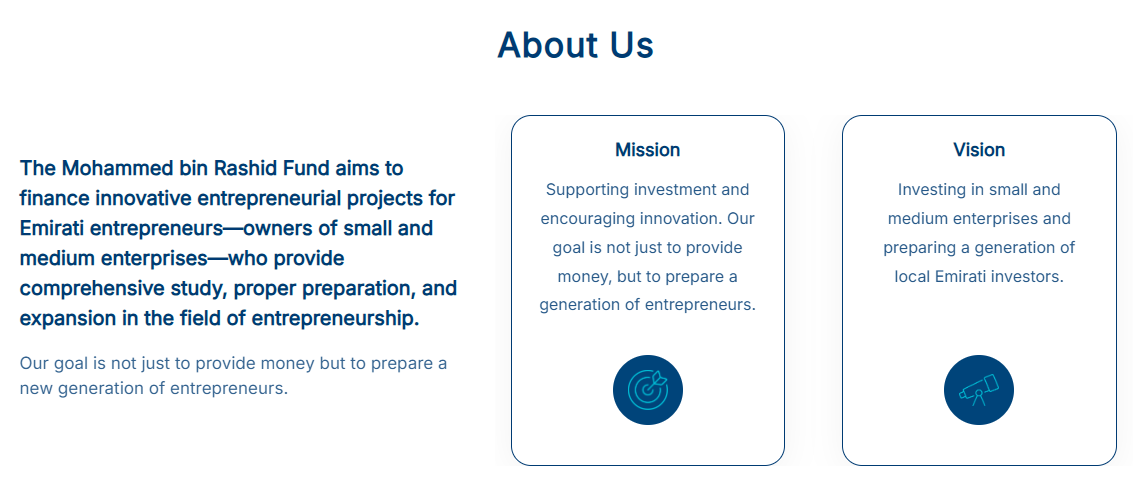
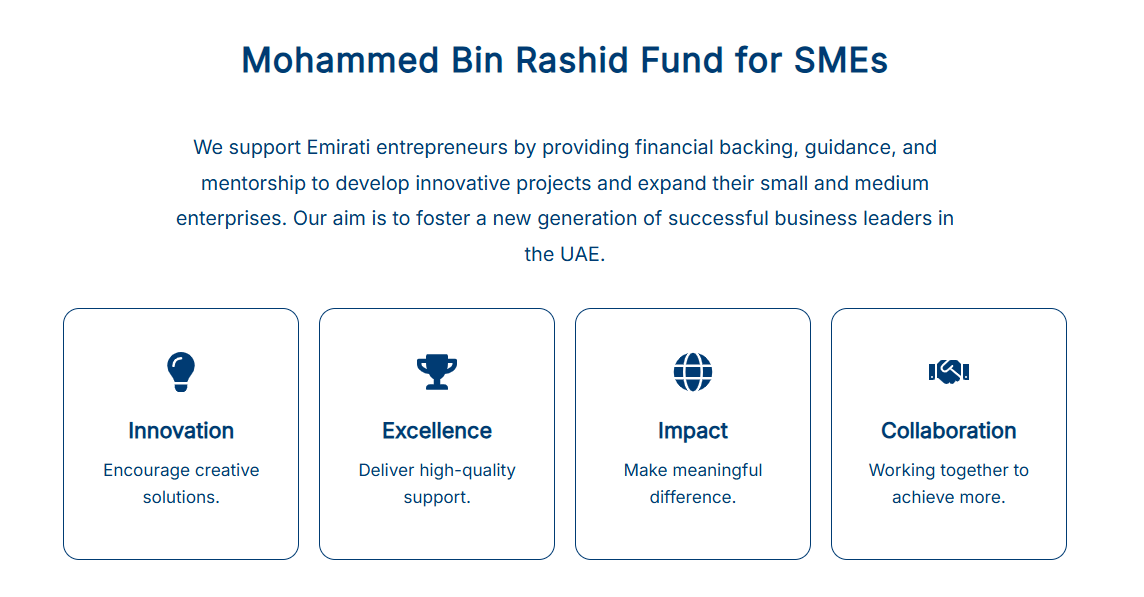
Update project with latest changes

diff --git a/the-fund/src/pages/AboutUs/AboutUs.tsx b/the-fund/src/pages/AboutUs/AboutUs.tsx
@@ -1,14 +1,131 @@
-import React from 'react';
-import About from '../../components/About/About';
+import React, { useEffect, useRef, useState } from "react";
+import { useTranslation } from "react-i18next";
+import { FaLightbulb, FaTrophy, FaGlobe, FaHandshake } from "react-icons/fa";
+import "./AboutUs.css";
 
 const AboutUs: React.FC = () => {
+  const { t, i18n } = useTranslation();
+  const isRTL = i18n.dir() === "rtl";
+
+  const values = [
+    { title: t("aboutPage.coreValues.values.0.title"), desc: t("aboutPage.coreValues.values.0.desc"), icon: <FaLightbulb /> },
+    { title: t("aboutPage.coreValues.values.1.title"), desc: t("aboutPage.coreValues.values.1.desc"), icon: <FaTrophy /> },
+    { title: t("aboutPage.coreValues.values.2.title"), desc: t("aboutPage.coreValues.values.2.desc"), icon: <FaGlobe /> },
+    { title: t("aboutPage.coreValues.values.3.title"), desc: t("aboutPage.coreValues.values.3.desc"), icon: <FaHandshake /> },
+  ];
+
+  const [cardsPerSlide, setCardsPerSlide] = useState(4);
+  const [currentSlide, setCurrentSlide] = useState(0);
+  const directionRef = useRef<"forward" | "backward">("forward");
+
+  // Responsive
+  useEffect(() => {
+    const handleResize = () => {
+      if (window.innerWidth >= 1200) setCardsPerSlide(4);
+      else if (window.innerWidth >= 768) setCardsPerSlide(2);
+      else setCardsPerSlide(1);
+    };
+    handleResize();
+    window.addEventListener("resize", handleResize);
+    return () => window.removeEventListener("resize", handleResize);
+  }, []);
+
+  // CSS variable
+  useEffect(() => {
+    document.documentElement.style.setProperty("--cards-per-slide", cardsPerSlide.toString());
+  }, [cardsPerSlide]);
+
+  // Split values into slides
+  const slides = [];
+  for (let i = 0; i < values.length; i += cardsPerSlide) {
+    slides.push(values.slice(i, i + cardsPerSlide));
+  }
+  const totalSlides = slides.length;
+
+  // Reset on language change
+  useEffect(() => {
+    setCurrentSlide(0);
+    directionRef.current = "forward";
+  }, [i18n.language]);
+
+  // Auto-slide ping-pong
+  useEffect(() => {
+    if (cardsPerSlide >= values.length) return;
+    const interval = setInterval(() => {
+      setCurrentSlide((prev) => {
+        if (directionRef.current === "forward") {
+          if (prev + 1 >= totalSlides) {
+            directionRef.current = "backward";
+            return prev - 1;
+          }
+          return prev + 1;
+        } else {
+          if (prev - 1 < 0) {
+            directionRef.current = "forward";
+            return prev + 1;
+          }
+          return prev - 1;
+        }
+      });
+    }, 5000);
+
+    return () => clearInterval(interval);
+  }, [cardsPerSlide, totalSlides]);
+
+  const goToSlide = (idx: number) => setCurrentSlide(idx);
+
   return (
-    <>
-      <main className="flex-grow-1">
-        {/* صفحة معلومات موسّعة بدون زر عرض قصتنا */}
-        <About isStandalone={true} />
-      </main>
-    </>
+    <main className="about-page" dir={isRTL ? "rtl" : "ltr"}>
+      <section className="hero-core-section container">
+        {/* Page Header */}
+        <div className="page-header">
+          <h1 className="main-title">{t("aboutPage.hero.title")}</h1>
+          <p className="subtitle">{t("aboutPage.hero.description")}</p>
+        </div>
+
+        {/* Core Values Carousel */}
+        {cardsPerSlide >= values.length ? (
+          <div className="values-grid">
+            {values.map((val) => (
+              <div className="value-card" key={val.title}>
+                <div className="icon">{val.icon}</div>
+                <h5>{val.title}</h5>
+                <p>{val.desc}</p>
+              </div>
+            ))}
+          </div>
+        ) : (
+          <div className="values-carousel">
+            <div
+              className={`carousel-track ${isRTL ? "rtl" : "ltr"}`}
+              style={{ transform: isRTL ? `translateX(${currentSlide * 100}%)` : `translateX(-${currentSlide * 100}%)` }}
+            >
+              {slides.map((slideItems, idx) => (
+                <div className="carousel-slide" key={idx}>
+                  {slideItems.map((val, cIdx) => (
+                    <div className="value-card" key={cIdx}>
+                      <div className="icon">{val.icon}</div>
+                      <h5>{val.title}</h5>
+                      <p>{val.desc}</p>
+                    </div>
+                  ))}
+                </div>
+              ))}
+            </div>
+
+            <div className="carousel-dots">
+              {slides.map((_, idx) => (
+                <span
+                  key={idx}
+                  className={`dot ${currentSlide === idx ? "active" : ""}`}
+                  onClick={() => goToSlide(idx)}
+                />
+              ))}
+            </div>
+          </div>
+        )}
+      </section>
+    </main>
   );
 };
 

diff --git a/the-fund/src/pages/AboutUs/AboutUs.css b/the-fund/src/pages/AboutUs/AboutUs.css
@@ -1,0 +1,132 @@
+:root {
+  --cards-per-slide: 4;
+}
+
+/* Hero Section */
+.hero-core-section {
+  padding: clamp(2rem, 5vw, 4rem);
+  text-align: center;
+}
+.page-header .main-title {
+  letter-spacing: 1px;
+  font-size: clamp(1.4rem, 2.5vw, 2.6rem);
+  color: var(--primary-color);
+  margin-bottom: 2.5rem;
+  font-weight: bold;
+}
+.page-header .subtitle {
+  font-size: 1.1rem;
+  line-height: 1.8;
+  color: var(--text-color);
+  max-width: 800px;
+  margin: 0 auto;
+}
+
+/* Core Values */
+.core-values-section {
+  margin-top: 40px;
+}
+.core-values-section .section-title {
+  font-size: 2rem;
+  color: var(--primary-color);
+  margin-bottom: 30px;
+  font-weight: bold;
+}
+
+/* Values Grid */
+.values-grid {
+  display: flex;
+  flex-wrap: wrap;
+  gap: 20px;
+  justify-content: center;
+  margin-top: 35px;
+}
+
+/* Value Card */
+.value-card {
+  background: var(--card-bg);
+  border: 1px solid var(--primary-color);
+  border-radius: 16px;
+  padding: 30px 25px;
+  text-align: center;
+  display: flex;
+  flex-direction: column;
+  justify-content: flex-start;
+  transition: transform 0.3s ease, box-shadow 0.3s ease;
+  flex: 1 1 calc(100% / var(--cards-per-slide) - 1rem);
+  min-width: 220px; /* لضمان عدم صغر الكروت على الشاشات الكبيرة */
+  max-width: 400px;
+}
+.value-card:hover {
+  transform: translateY(-8px);
+  border-color: var(--primary-color);
+  box-shadow: 0 10px 26px var(--card-shadow);
+}
+.value-card .icon {
+  font-size: 40px;
+  color: var(--primary-color);
+  margin-bottom: 15px;
+}
+.value-card h5 {
+  font-size: 1.2rem;
+  font-weight: bold;
+  margin-bottom: 10px;
+  color: var(--primary-color);
+}
+.value-card p {
+  font-size: 0.95rem;
+  line-height: 1.6;
+  color: var(--text-color);
+}
+
+/* Carousel */
+.values-carousel {
+  position: relative;
+  overflow: hidden;
+  margin-top: 30px;
+}
+.carousel-track {
+  display: flex;
+  transition: transform 0.5s ease;
+  width: 100%;
+}
+.carousel-slide {
+  flex: 0 0 100%;
+  display: flex;
+  gap: 20px;
+  justify-content: center;
+}
+.carousel-dots {
+  display: flex;
+  justify-content: center;
+  margin-top: 20px;
+}
+.carousel-dots .dot {
+  width: 12px;
+  height: 12px;
+  background: #ccc;
+  border-radius: 50%;
+  margin: 0 6px;
+  cursor: pointer;
+  transition: background 0.3s;
+}
+.carousel-dots .dot.active {
+  background: var(--primary-color);
+}
+
+/* Responsive breakpoints */
+@media (max-width: 1199px) {
+  :root {
+    --cards-per-slide: 3;
+  }
+}
+@media (max-width: 991px) {
+  :root {
+    --cards-per-slide: 2;
+  }
+}
+@media (max-width: 767px) {
+  :root {
+    --cards-per-slide: 1;
+  }
+}

diff --git a/the-fund/src/styles/theme.css b/the-fund/src/styles/theme.css
@@ -335,7 +335,7 @@ body[data-theme="default"][data-dark="true"] {
 
   --primary-color: #1f6feb;
   --secondary-color: #2d81ff;
-  --accent-color: #2d81ff;
+  --accent-color: #5a9bff;
 
   --navbar-bg: #1A2642;
   --navbar-text: #e6edf3;
@@ -422,12 +422,12 @@ body[data-theme="evergreen"][data-dark="true"] {
    READING THEME — DARK MODE (NEW + Normalized)
 -------------------------------------------------- */
 body[data-theme="reading"][data-dark="true"] {
-  --bg-color: #1b1a17;            /* خلفية داكنة مع دفء بسيط */
+  --bg-color: #3a3934;            /* خلفية داكنة مع دفء بسيط */
   --text-color: #e8e3d8;          /* نص بيج مريح للقراءة */
 
   --primary-color: #b89663;       /* نفس الأصفر الدافئ */
   --secondary-color: #7f9584;     /* أخضر خافت */
-  --accent-color: #b89663;
+  --accent-color: #d4b77f;
 
   --navbar-bg: #1f1e1b;
   --navbar-text: #e8e3d8;

diff --git a/the-fund/src/components/Footer/Footer.css b/the-fund/src/components/Footer/Footer.css
@@ -4,7 +4,6 @@
 .footer-container {
   background: var(--bg-color);
   color: var(--text-color);
-  font-family: "Cairo", sans-serif;
 margin-top: clamp(48px, 6vw, 80px);
   font-size: 15px; /* حجم الخط موحد */
   line-height: 1.6;
@@ -53,13 +52,12 @@ margin-top: clamp(48px, 6vw, 80px);
   justify-content: space-between;
   align-items: center;
   gap: 5px;
+  
 }
 
 .footer-pill a,
 .footer-sitemap-btn {
-  color: #fff;
-  font-weight: 600;
-  font-size: 15px;
+  font-size: 0.9rem;
   text-decoration: none;
   cursor: pointer;
   background: none;
